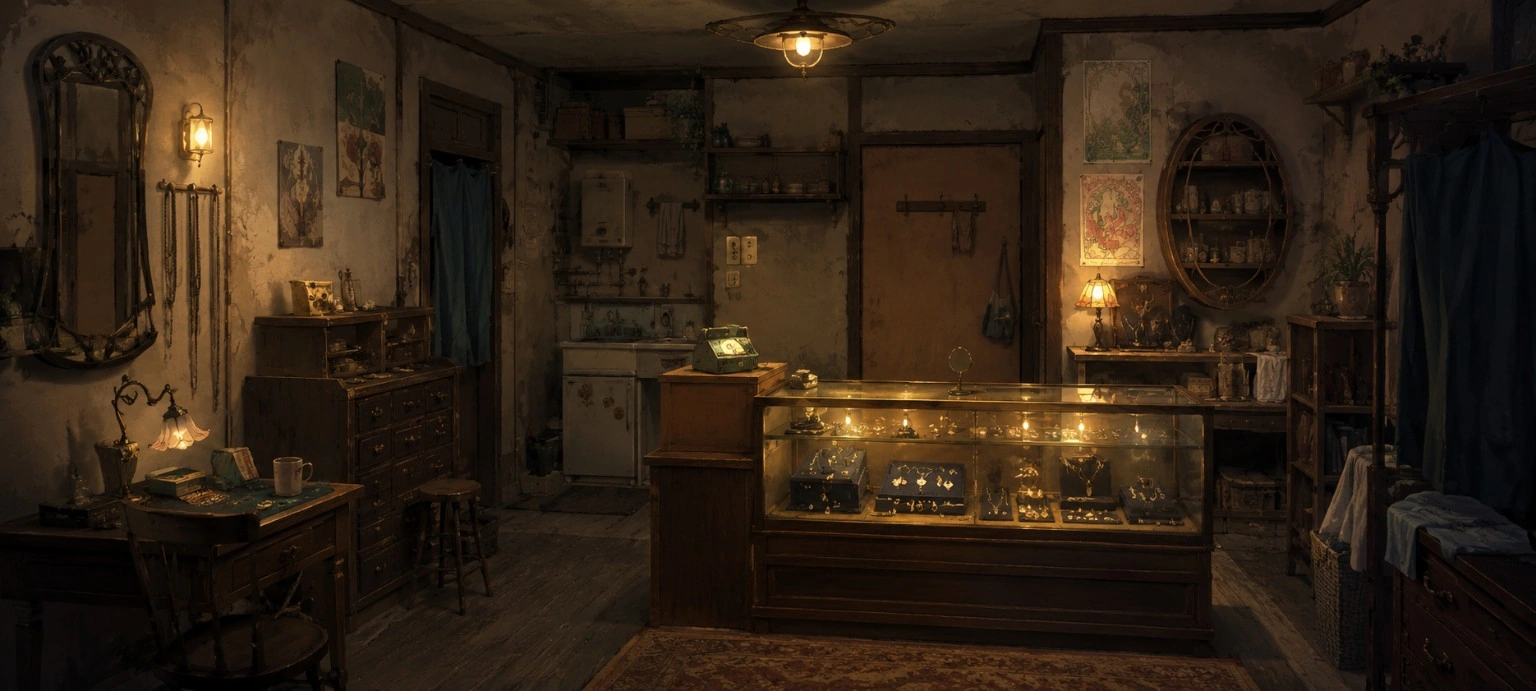
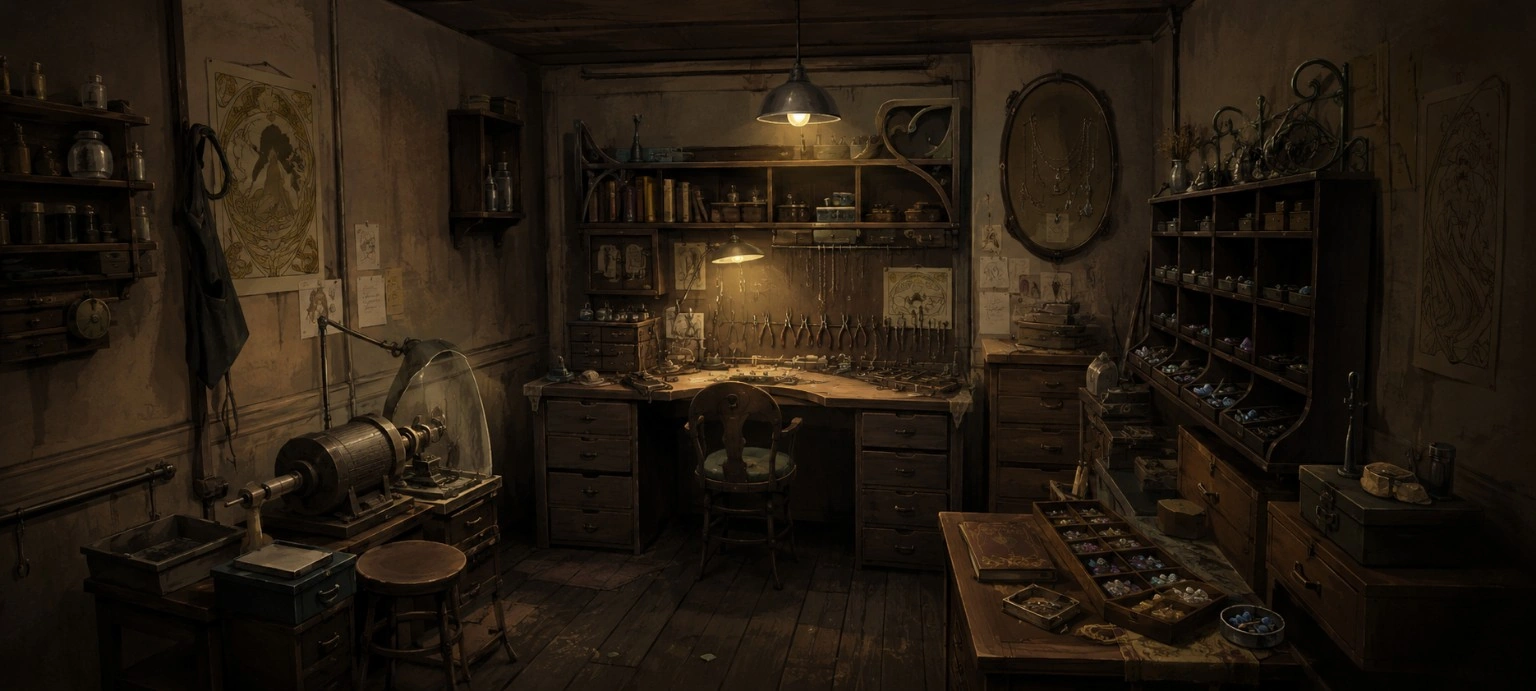
V6

diff --git a/sw.js b/sw.js
@@ -1,26 +1,37 @@
-const CACHE_NAME = 'jewelrygame-simple-v0.3.8';
+const CACHE_NAME = 'jewelrygame-v0.3.9-background-fix';
 const APP_SHELL = [
   './', './index.html', './styles.css', './manifest.webmanifest',
-  './js/app.js', './js/audio.js', './js/game-data.js',
+  './js/app.js', './js/audio.js', './js/game-data.js', './js/firebase-service.js', './js/firebase-config.js',
   './assets/images/main.webp', './assets/images/mining.webp', './assets/images/workshop.webp',
-  './assets/images/okachimachi.webp', './assets/images/phone.webp', './assets/images/sleep.webp', './assets/images/store.webp',
+  './assets/images/glab.webp', './assets/images/okachimachi.webp', './assets/images/phone.webp',
+  './assets/images/sleep.webp', './assets/images/store.webp', './assets/images/character-customize.webp',
+  './assets/data/metal-prices.json',
   './assets/icons/icon-192.png', './assets/icons/icon-512.png', './assets/icons/apple-touch-icon.png', './assets/icons/favicon.png',
   './assets/audio/bgm-main.ogg', './assets/audio/bgm-mining.ogg', './assets/audio/bgm-workshop.ogg',
-  './assets/audio/bgm-store.ogg', './assets/audio/bgm-okachimachi.ogg', './assets/audio/bgm-sleep.ogg',
+  './assets/audio/bgm-store.ogg', './assets/audio/bgm-glab.ogg', './assets/audio/bgm-okachimachi.ogg', './assets/audio/bgm-sleep.ogg',
   './assets/audio/amb-main.ogg', './assets/audio/amb-mining.ogg', './assets/audio/amb-workshop.ogg',
-  './assets/audio/amb-store.ogg', './assets/audio/amb-okachimachi.ogg', './assets/audio/amb-sleep.ogg',
-  './assets/audio/sfx-select.ogg', './assets/audio/sfx-impact.ogg', './assets/audio/sfx-success.ogg', './assets/audio/sfx-error.ogg'
+  './assets/audio/amb-store.ogg', './assets/audio/amb-glab.ogg', './assets/audio/amb-okachimachi.ogg', './assets/audio/amb-sleep.ogg',
+  './assets/audio/sfx-select.ogg', './assets/audio/sfx-impact.ogg', './assets/audio/sfx-success.ogg',
+  './assets/audio/sfx-error.ogg', './assets/audio/sfx-explosion.ogg'
 ];
 self.addEventListener('install', (event) => {
   event.waitUntil(caches.open(CACHE_NAME).then((cache) => cache.addAll(APP_SHELL)).then(() => self.skipWaiting()));
 });
 self.addEventListener('activate', (event) => {
-  event.waitUntil(caches.keys().then((keys) => Promise.all(keys.filter((key) => key !== CACHE_NAME).map((key) => caches.delete(key)))).then(() => self.clients.claim()));
+  event.waitUntil(caches.keys().then((keys) => Promise.all(keys.filter((k) => k !== CACHE_NAME).map((k) => caches.delete(k)))).then(() => self.clients.claim()));
 });
 self.addEventListener('fetch', (event) => {
-  if (event.request.method !== 'GET') return;
   const url = new URL(event.request.url);
-  if (url.origin !== self.location.origin) return;
+  if (event.request.method !== 'GET') return;
+  if (url.origin !== location.origin) return;
+  if (url.pathname.endsWith('/assets/data/metal-prices.json')) {
+    event.respondWith(fetch(event.request).then((response) => {
+      const copy = response.clone();
+      caches.open(CACHE_NAME).then((cache) => cache.put(event.request, copy));
+      return response;
+    }).catch(() => caches.match(event.request)));
+    return;
+  }
   event.respondWith(caches.match(event.request).then((cached) => cached || fetch(event.request).then((response) => {
     const copy = response.clone();
     caches.open(CACHE_NAME).then((cache) => cache.put(event.request, copy));